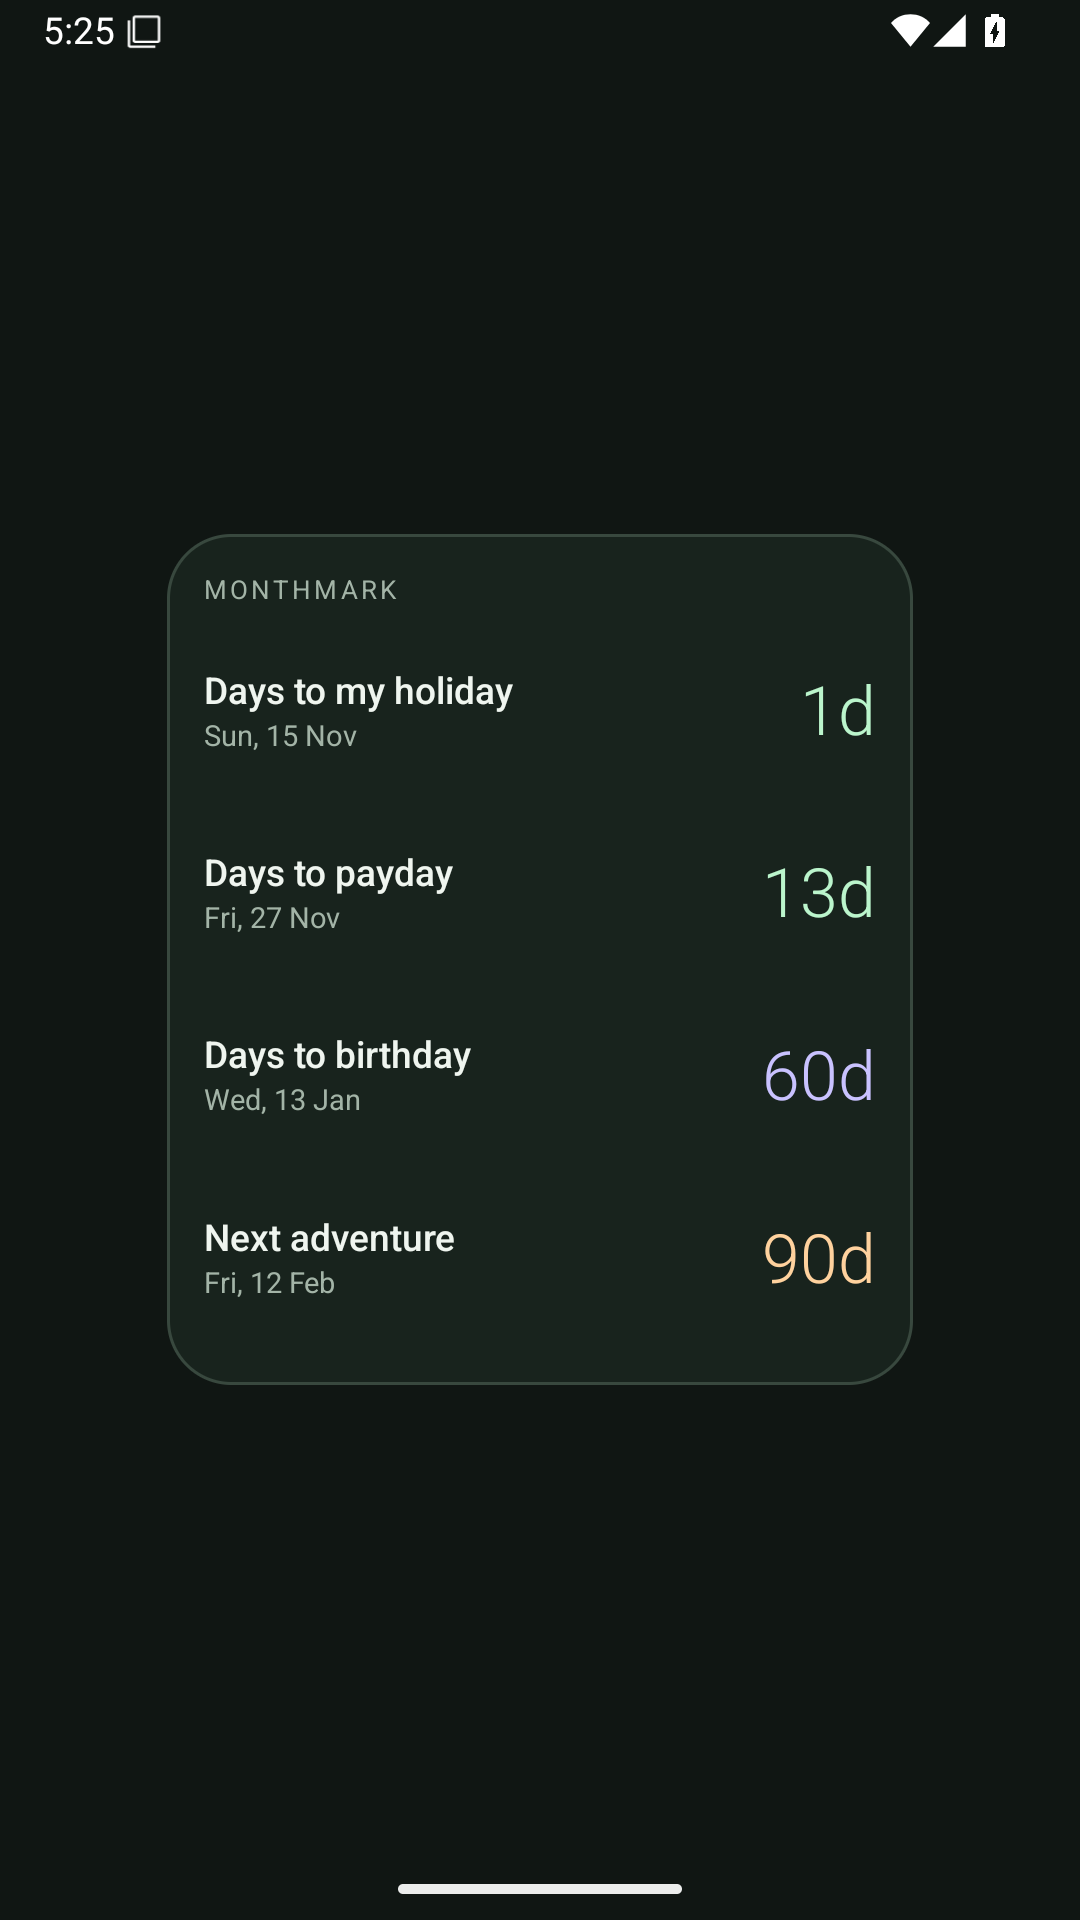
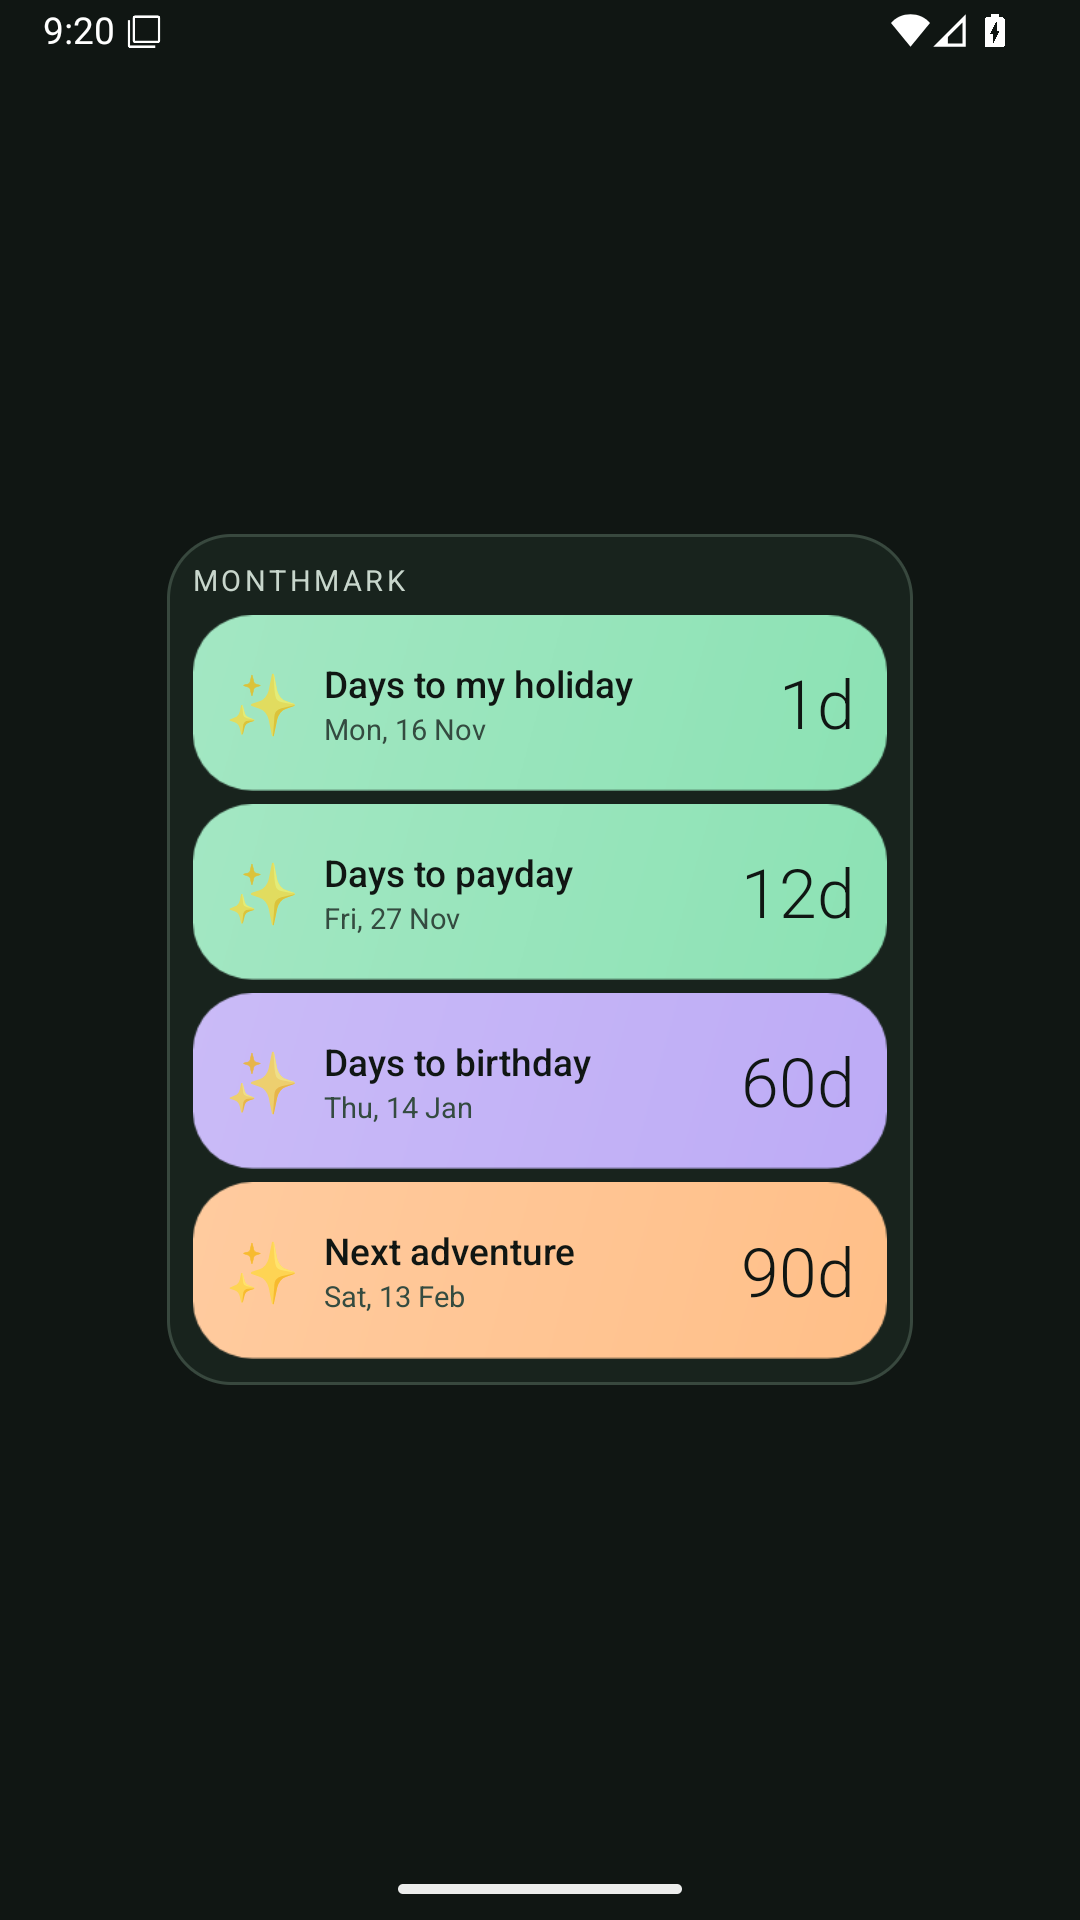
Document colourful customisation and immediate widget placement [skip ci]

Changed region(s): [[0.1528, 0.2812, 0.825, 0.7188], [0.0917, 0.0, 0.1528, 0.0312], [0.0306, 0.0, 0.0611, 0.0312]]

diff --git a/README.md b/README.md
@@ -7,14 +7,16 @@ A small native Android app for the days you're looking forward to.
 - Monthly countdowns stay due for the entire day and roll forward the following day.
 - Small (2 × 2), medium (4 × 2), and large (4 × 4) home-screen widgets, all resizable.
 - Select one or several countdowns for each widget. Wider/taller widgets show up to four, nearest first. Smaller widgets show the nearest and indicate how many more are selected.
-- Five colours, edit/delete, next-date previews, and days-since for past fixed dates.
+- Ten colour palettes, twenty event icons, and your own photo backgrounds on cards and widgets.
+- A live appearance preview in the editor, edit/delete, next-date previews, and days-since for past fixed dates.
+- Photos are copied into app storage, so the countdown keeps its background after the source image is moved or removed.
 - Offline, no accounts, no ads, no internet permission. Android 8.0+.
 
 ## Screenshots
 
-Captured in the Android 15 cloud emulator with sample countdowns. The widget previews use Android's native widget host.
+Captured in the Android 16 cloud emulator with sample countdowns and a generated test landscape. The widget previews use Android's native widget host; the placement test also exercises Pixel Launcher.
 
-<img src="docs/screenshots/app.png" alt="Monthmark app with fixed-date and last-Friday countdowns" width="260"> <img src="docs/screenshots/widget-large.png" alt="Large widget showing four countdowns" width="260">
+<img src="docs/screenshots/colourful-app.png" alt="Colourful countdown cards with icons and a photo background" width="260"> <img src="docs/screenshots/photo-widget.png" alt="Widget showing multiple countdowns with individual colours, icons and a photo" width="260">
 
 [Small widget](docs/screenshots/widget-small.png) · [Medium widget](docs/screenshots/widget-medium.png) · [Large widget](docs/screenshots/widget-large.png)
 
@@ -22,7 +24,11 @@ Captured in the Android 15 cloud emulator with sample countdowns. The widget pre
 
 Download `Monthmark.apk` from [Releases](https://github.com/mallison/monthmark-android/releases/latest) on your Android phone. Allow installation from your browser when Android asks, then open the APK.
 
-Add a countdown, tap its card, then **Add home-screen widget**. Or touch and hold an empty space on your home screen → **Widgets** → **Monthmark**. Choose a size and select countdowns. Touch and hold a widget to resize it; launchers supporting widget reconfiguration also let you change its selection. Each widget has its own selection.
+Install updates over the existing app to keep your countdowns.
+
+Add a countdown, tap its card, then **Add home-screen widget**. Or touch and hold an empty space on your home screen → **Widgets** → **Monthmark**. On Android 12+, dropping a widget shows a useful default immediately: the nearest countdown for small widgets, or multiple countdowns for larger ones. **Tap the placed widget to choose its countdowns.** This avoids making successful placement depend on a launcher configuration-activity result. Older Android versions open the chooser during placement.
+
+Touch and hold a widget to resize it. Each widget has its own selection. To personalise a countdown, tap its card → **Edit countdown**, then choose its colour, icon or background photo.
 
 Widget dimensions depend on your launcher. There is no ongoing background service: date refreshes use a midnight alarm and Android's periodic widget update. Android can defer updates during deep sleep or aggressive battery saving.
 
@@ -32,7 +38,7 @@ The supplied APK is a debug-signed personal build, not a Play Store release. The
 
 [Open in GitHub Codespaces](https://codespaces.new/mallison/monthmark-android). The dev container installs Java 17 and Android SDK tools. No Android Studio installation is required on your computer. Codespaces usage depends on your GitHub allowance.
 
-GitHub Actions builds and checks each push or pull request. Open **Actions → Android cloud build** to run it manually. Each successful run supplies a `monthmark-apk` artifact. The workflow also runs the app and real widget host tests in an Android 15 emulator and uploads screenshots and test reports.
+GitHub Actions builds and checks each push or pull request. Open **Actions → Android cloud build** to run it manually. Each successful run supplies a `monthmark-apk-api-35` or `monthmark-apk-api-36` artifact. The workflow runs app, photo import, real widget host and Pixel Launcher drag-and-drop tests on Android 15 and Android 16, then uploads screenshots and test reports. Android 17 has not been tested in the cloud runner because its SDK feed currently lacks that system image.
 
 ```sh
 ./gradlew :core:test :app:lintDebug :app:assembleDebug
